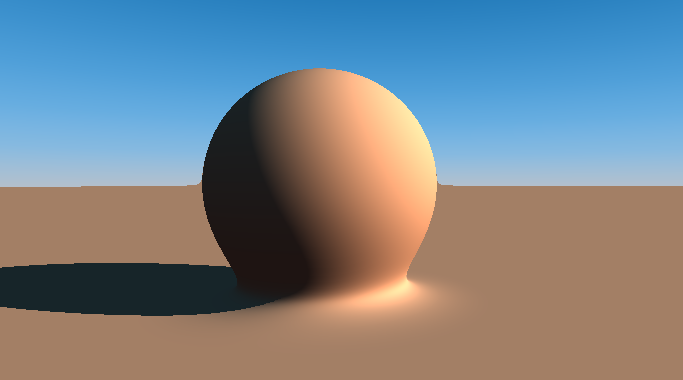
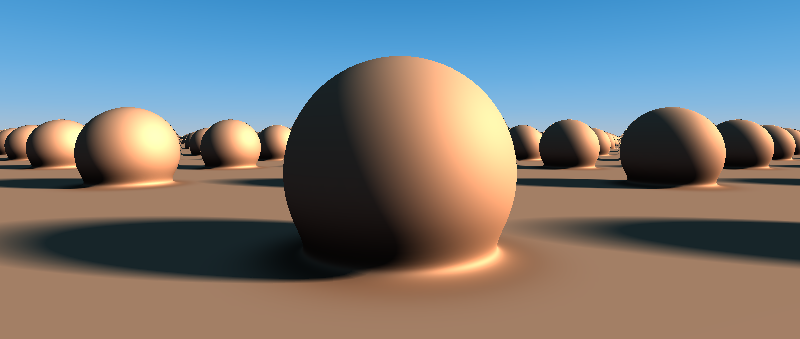
[DOC] prepare for v0.1 release

diff --git a/README.md b/README.md
@@ -1,5 +1,5 @@
 # sdf_craft
-A C89 standard compliant, nostdlib (no C Standard Library) Raymarched SDF Modeler entirely running on the CPU.
+A C89 standard compliant, nostdlib (no C Standard Library) Raymarched SDF Modeler running entirely on the CPU.
 
 <p align="center">
 <a href="https://github.com/nickscha/sdf_craft"><img src="assets/sdf_sphere.png"></a>
@@ -64,6 +64,16 @@ You can now run the `win32_sdf_craft.exe` program.
 ```bat
 win32_sdf_craft_x64.exe
 ```
+
+## Roadmap
+
+For the next release of **CRAFT_IT** the following features are planend.
+
+### v0.1 Features
+- [x] Win32 ARM, x64 release build
+- [x] Basic Raymarched SDF with Normals, Shadow Mapping, Ambient Occlusion, Specular Highlights
+
+The **v0.1** release is an early version and only suitable for learning purpose to see how a basic raymarcher can be implemented on the CPU.
 
 ## "nostdlib" Motivation & Purpose
 
